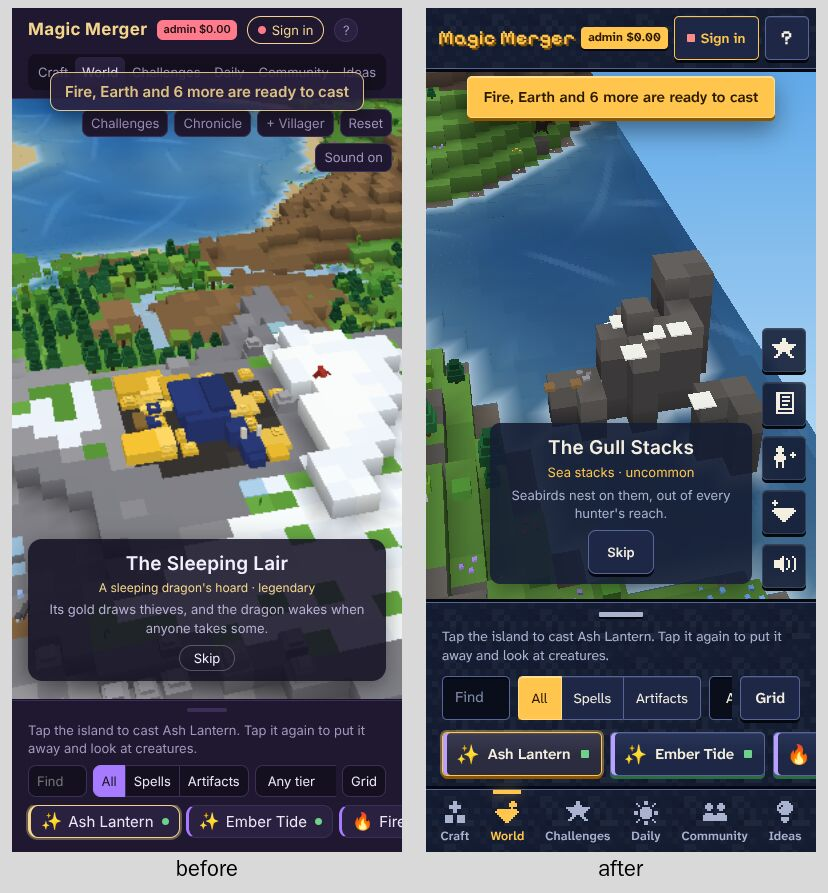
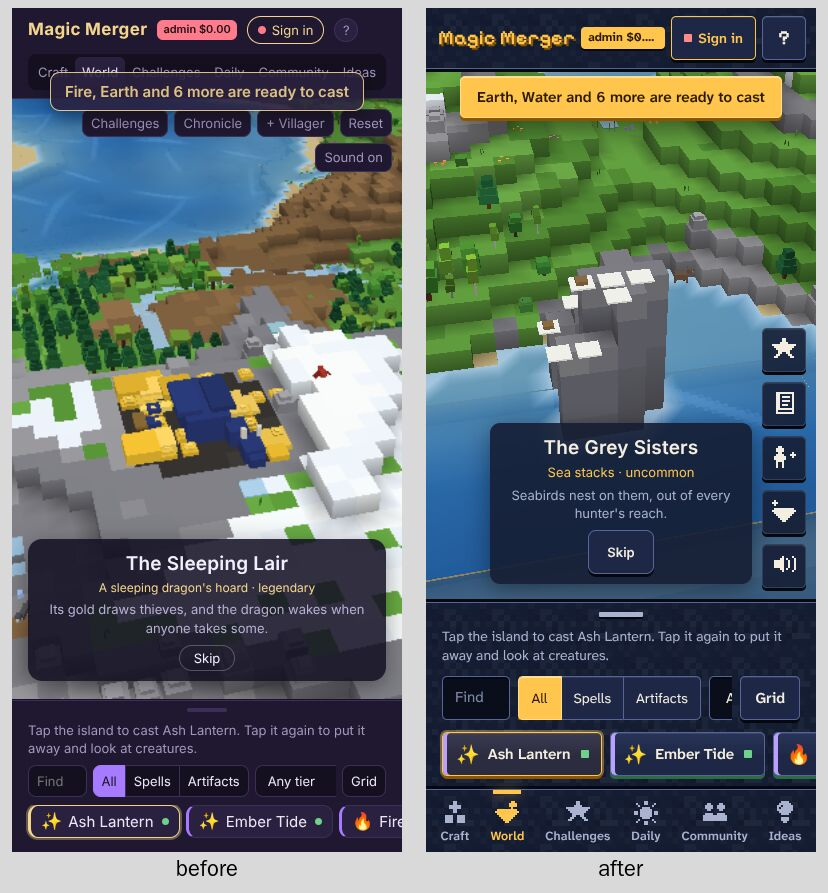
Interface: the top bar fits with the preview and admin badges (review of #67)
The badges were flex: none, so with both shown at 390 px the account chip
ended at x 401 and ? at x 451, off screen. They now shrink with an ellipsis.
ui-frames shows both badges with a two digit spend and fails when anything
in the top bar passes the right edge or the page is wider than the screen:
it fails without this fix (? at x 451, page 451 px wide) and passes with it.

Claude-Session: https://claude.ai/code/session_01NxvtAmx4sAhxepGMgTuDbk

Changed region(s): [[0.5133, 0.0, 0.9964, 0.6954]]

diff --git a/src/theme.css b/src/theme.css
@@ -315,7 +315,9 @@ input[type="checkbox"] {
 }
 
 .badge {
-  flex: none;
+  /* Shrinks, with an ellipsis, so the account chip and ? stay on screen
+     (the review of #67: preview and admin badges pushed ? to x 444). */
+  flex: 0 1 auto;
   padding: 3px 7px;
   border-radius: 4px;
   font: 700 12px/1.3 var(--font-body);
